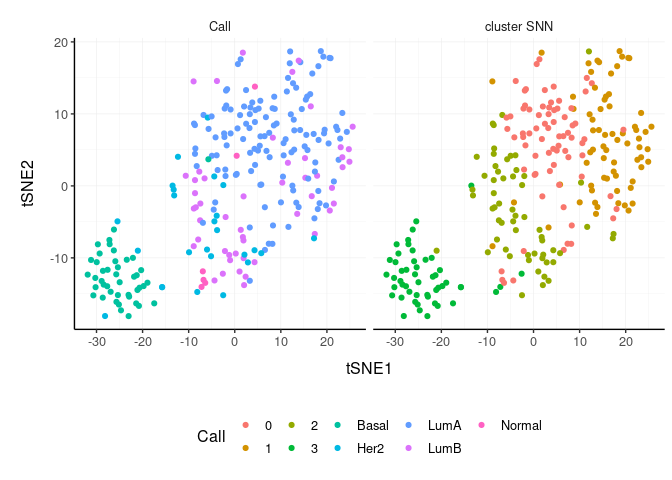
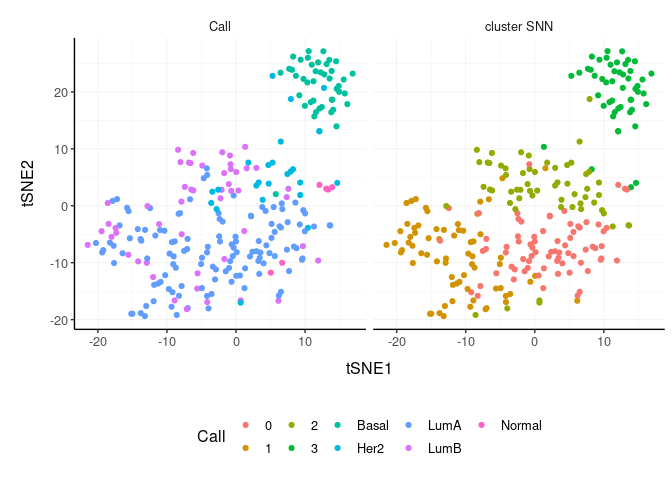
update README

diff --git a/README.md b/README.md
@@ -37,22 +37,23 @@ Please have a look also to
 
 ## Functions/utilities available
 
-| Function                        | Description                                                                  |
-| ------------------------------- | ---------------------------------------------------------------------------- |
-| `identify_abundant`             | identify the abundant genes                                                  |
-| `aggregate_duplicates`          | Aggregate abundance and annotation of duplicated transcripts in a robust way |
-| `scale_abundance`               | Scale (normalise) abundance for RNA sequencing depth                         |
-| `reduce_dimensions`             | Perform dimensionality reduction (PCA, MDS, tSNE)                            |
-| `cluster_elements`              | Labels elements with cluster identity (kmeans, SNN)                          |
-| `remove_redundancy`             | Filter out elements with highly correlated features                          |
-| `adjust_abundance`              | Remove known unwanted variation (Combat)                                     |
-| `test_differential_abundance`   | Differential transcript abundance testing (DE)                               |
-| `deconvolve_cellularity`        | Estimated tissue composition (Cibersort or llsr)                             |
-| `test_differential_cellularity` | Differential cell-type abundance testing                                     |
-| `keep_variable`                 | Filter for top variable features                                             |
-| `keep_abundant`                 | Filter out lowly abundant transcripts                                        |
-| `test_gene_enrichment`          | Gene enrichment analyses (EGSEA)                                             |
-| `test_gene_overrepresentation`  | Gene enrichment on list of transcript names (no rank)                        |
+| Function                          | Description                                                                  |
+| --------------------------------- | ---------------------------------------------------------------------------- |
+| `identify_abundant`               | identify the abundant genes                                                  |
+| `aggregate_duplicates`            | Aggregate abundance and annotation of duplicated transcripts in a robust way |
+| `scale_abundance`                 | Scale (normalise) abundance for RNA sequencing depth                         |
+| `reduce_dimensions`               | Perform dimensionality reduction (PCA, MDS, tSNE)                            |
+| `cluster_elements`                | Labels elements with cluster identity (kmeans, SNN)                          |
+| `remove_redundancy`               | Filter out elements with highly correlated features                          |
+| `adjust_abundance`                | Remove known unwanted variation (Combat)                                     |
+| `test_differential_abundance`     | Differential transcript abundance testing (DE)                               |
+| `deconvolve_cellularity`          | Estimated tissue composition (Cibersort or llsr)                             |
+| `test_differential_cellularity`   | Differential cell-type abundance testing                                     |
+| `test_stratification_cellularity` | Estimate Kaplan-Meier survival differences                                   |
+| `keep_variable`                   | Filter for top variable features                                             |
+| `keep_abundant`                   | Filter out lowly abundant transcripts                                        |
+| `test_gene_enrichment`            | Gene enrichment analyses (EGSEA)                                             |
+| `test_gene_overrepresentation`    | Gene enrichment on list of transcript names (no rank)                        |
 
 | Utilities                  | Description                                                     |
 | -------------------------- | --------------------------------------------------------------- |
@@ -459,18 +460,18 @@ tt.norm.tSNE %>%
 ```
 
     ## # A tibble: 251 x 4
-    ##     tSNE1   tSNE2 sample                       Call 
-    ##     <dbl>   <dbl> <chr>                        <fct>
-    ##  1   8.68  10.7   TCGA-A1-A0SD-01A-11R-A115-07 LumA 
-    ##  2  -4.96   4.18  TCGA-A1-A0SF-01A-11R-A144-07 LumA 
-    ##  3   5.76   0.187 TCGA-A1-A0SG-01A-11R-A144-07 LumA 
-    ##  4   8.18  -8.05  TCGA-A1-A0SH-01A-11R-A084-07 LumA 
-    ##  5   8.26   6.69  TCGA-A1-A0SI-01A-11R-A144-07 LumB 
-    ##  6  -4.24  -2.30  TCGA-A1-A0SJ-01A-11R-A084-07 LumA 
-    ##  7 -31.2  -10.3   TCGA-A1-A0SK-01A-12R-A084-07 Basal
-    ##  8   3.27 -13.2   TCGA-A1-A0SM-01A-11R-A084-07 LumA 
-    ##  9   2.03 -13.8   TCGA-A1-A0SN-01A-11R-A144-07 LumB 
-    ## 10  23.3   10.1   TCGA-A1-A0SQ-01A-21R-A144-07 LumA 
+    ##       tSNE1   tSNE2 sample                       Call 
+    ##       <dbl>   <dbl> <chr>                        <fct>
+    ##  1   0.0408 -12.3   TCGA-A1-A0SD-01A-11R-A115-07 LumA 
+    ##  2   6.63     0.411 TCGA-A1-A0SF-01A-11R-A144-07 LumA 
+    ##  3  -8.32    -1.42  TCGA-A1-A0SG-01A-11R-A144-07 LumA 
+    ##  4  -1.94    -2.79  TCGA-A1-A0SH-01A-11R-A084-07 LumA 
+    ##  5  -1.68    -9.36  TCGA-A1-A0SI-01A-11R-A144-07 LumB 
+    ##  6  -4.68     4.84  TCGA-A1-A0SJ-01A-11R-A084-07 LumA 
+    ##  7  10.5     27.2   TCGA-A1-A0SK-01A-12R-A084-07 Basal
+    ##  8  -0.341    1.80  TCGA-A1-A0SM-01A-11R-A084-07 LumA 
+    ##  9   0.350    2.67  TCGA-A1-A0SN-01A-11R-A144-07 LumB 
+    ## 10 -17.7     -7.03  TCGA-A1-A0SQ-01A-21R-A144-07 LumA 
     ## # … with 241 more rows
 
 ``` r
@@ -765,8 +766,82 @@ We can also perform regression analysis with censored data (coxph).
 
 ``` r
     tt %>%
-    test_differential_cellularity(survival::Surv(time, dead) ~ .)
+    
+    # Add survival data
+    nest(data = -sample) %>%
+        mutate(
+            days = sample(1:1000, size = n()),
+            dead = sample(c(0,1), size = n(), replace = TRUE)
+        ) %>%
+    unnest(data) %>%
+
+    # Test
+    test_differential_cellularity(
+        survival::Surv(days, dead) ~ .,
+        sample, transcript, count
+    )
 ```
+
+    ## # A tibble: 22 x 6
+    ##    .cell_type            cell_type_proport… estimate std.error statistic p.value
+    ##    <chr>                 <list>                <dbl>     <dbl>     <dbl>   <dbl>
+    ##  1 B cells naive         <tibble [48 × 9]>     2.11      0.936     2.25  0.0242 
+    ##  2 B cells memory        <tibble [48 × 9]>    -0.284     0.574    -0.496 0.620  
+    ##  3 Plasma cells          <tibble [48 × 9]>     0.417     1.41      0.296 0.767  
+    ##  4 T cells CD8           <tibble [48 × 9]>     0.644     0.970     0.664 0.507  
+    ##  5 T cells CD4 naive     <tibble [48 × 9]>     3.73      2.14      1.74  0.0823 
+    ##  6 T cells CD4 memory r… <tibble [48 × 9]>     2.23      1.36      1.63  0.102  
+    ##  7 T cells CD4 memory a… <tibble [48 × 9]>    -2.37      1.32     -1.80  0.0716 
+    ##  8 T cells follicular h… <tibble [48 × 9]>     5.42      1.73      3.14  0.00169
+    ##  9 T cells regulatory (… <tibble [48 × 9]>     0.439     1.68      0.262 0.794  
+    ## 10 T cells gamma delta   <tibble [48 × 9]>    -1.06      1.16     -0.914 0.361  
+    ## # … with 12 more rows
+
+We can also perform test of Kaplan-Meier curves.
+
+``` r
+tt_stratified = 
+    tt %>%
+    
+    # Add survival data
+    nest(data = -sample) %>%
+        mutate(
+            days = sample(1:1000, size = n()),
+            dead = sample(c(0,1), size = n(), replace = TRUE)
+        ) %>%
+    unnest(data) %>%
+
+    # Test
+    test_stratification_cellularity(
+        survival::Surv(days, dead) ~ .,
+        sample, transcript, count
+    )
+
+tt_stratified
+```
+
+    ## # A tibble: 22 x 6
+    ##    .cell_type   cell_type_propor… .low_cellularit… .high_cellulari… pvalue plot 
+    ##    <chr>        <list>                       <dbl>            <dbl>  <dbl> <lis>
+    ##  1 B cells nai… <tibble [48 × 9]>             13.6            13.4  0.820  <ggs…
+    ##  2 B cells mem… <tibble [48 × 9]>             17.3             9.72 0.181  <ggs…
+    ##  3 Plasma cells <tibble [48 × 9]>             14.9            12.1  0.207  <ggs…
+    ##  4 T cells CD8  <tibble [48 × 9]>             12.9            14.1  0.0972 <ggs…
+    ##  5 T cells CD4… <tibble [48 × 9]>             15.3            11.7  0.777  <ggs…
+    ##  6 T cells CD4… <tibble [48 × 9]>             10.6            16.4  0.337  <ggs…
+    ##  7 T cells CD4… <tibble [48 × 9]>             14.9            12.1  0.407  <ggs…
+    ##  8 T cells fol… <tibble [48 × 9]>             18.8             8.17 0.338  <ggs…
+    ##  9 T cells reg… <tibble [48 × 9]>             14.7            12.3  0.0240 <ggs…
+    ## 10 T cells gam… <tibble [48 × 9]>             20.4             6.61 0.769  <ggs…
+    ## # … with 12 more rows
+
+Plot Kaplan-Meier curves
+
+``` r
+tt_stratified$plot[[1]]
+```
+
+![](man/figures/unnamed-chunk-16-1.png)<!-- -->
 
 ## Cluster `samples`
 
@@ -876,18 +951,18 @@ tt.norm.SNN %>%
 ```
 
     ## # A tibble: 251 x 5
-    ##     tSNE1   tSNE2 sample                       Call  `cluster SNN`
-    ##     <dbl>   <dbl> <chr>                        <fct> <fct>        
-    ##  1   8.68  10.7   TCGA-A1-A0SD-01A-11R-A115-07 LumA  1            
-    ##  2  -4.96   4.18  TCGA-A1-A0SF-01A-11R-A144-07 LumA  2            
-    ##  3   5.76   0.187 TCGA-A1-A0SG-01A-11R-A144-07 LumA  1            
-    ##  4   8.18  -8.05  TCGA-A1-A0SH-01A-11R-A084-07 LumA  0            
-    ##  5   8.26   6.69  TCGA-A1-A0SI-01A-11R-A144-07 LumB  0            
-    ##  6  -4.24  -2.30  TCGA-A1-A0SJ-01A-11R-A084-07 LumA  1            
-    ##  7 -31.2  -10.3   TCGA-A1-A0SK-01A-12R-A084-07 Basal 3            
-    ##  8   3.27 -13.2   TCGA-A1-A0SM-01A-11R-A084-07 LumA  2            
-    ##  9   2.03 -13.8   TCGA-A1-A0SN-01A-11R-A144-07 LumB  2            
-    ## 10  23.3   10.1   TCGA-A1-A0SQ-01A-21R-A144-07 LumA  1            
+    ##       tSNE1   tSNE2 sample                       Call  `cluster SNN`
+    ##       <dbl>   <dbl> <chr>                        <fct> <fct>        
+    ##  1   0.0408 -12.3   TCGA-A1-A0SD-01A-11R-A115-07 LumA  1            
+    ##  2   6.63     0.411 TCGA-A1-A0SF-01A-11R-A144-07 LumA  2            
+    ##  3  -8.32    -1.42  TCGA-A1-A0SG-01A-11R-A144-07 LumA  1            
+    ##  4  -1.94    -2.79  TCGA-A1-A0SH-01A-11R-A084-07 LumA  0            
+    ##  5  -1.68    -9.36  TCGA-A1-A0SI-01A-11R-A144-07 LumB  0            
+    ##  6  -4.68     4.84  TCGA-A1-A0SJ-01A-11R-A084-07 LumA  1            
+    ##  7  10.5     27.2   TCGA-A1-A0SK-01A-12R-A084-07 Basal 3            
+    ##  8  -0.341    1.80  TCGA-A1-A0SM-01A-11R-A084-07 LumA  2            
+    ##  9   0.350    2.67  TCGA-A1-A0SN-01A-11R-A144-07 LumB  2            
+    ## 10 -17.7     -7.03  TCGA-A1-A0SQ-01A-21R-A144-07 LumA  1            
     ## # … with 241 more rows
 
 ``` r
